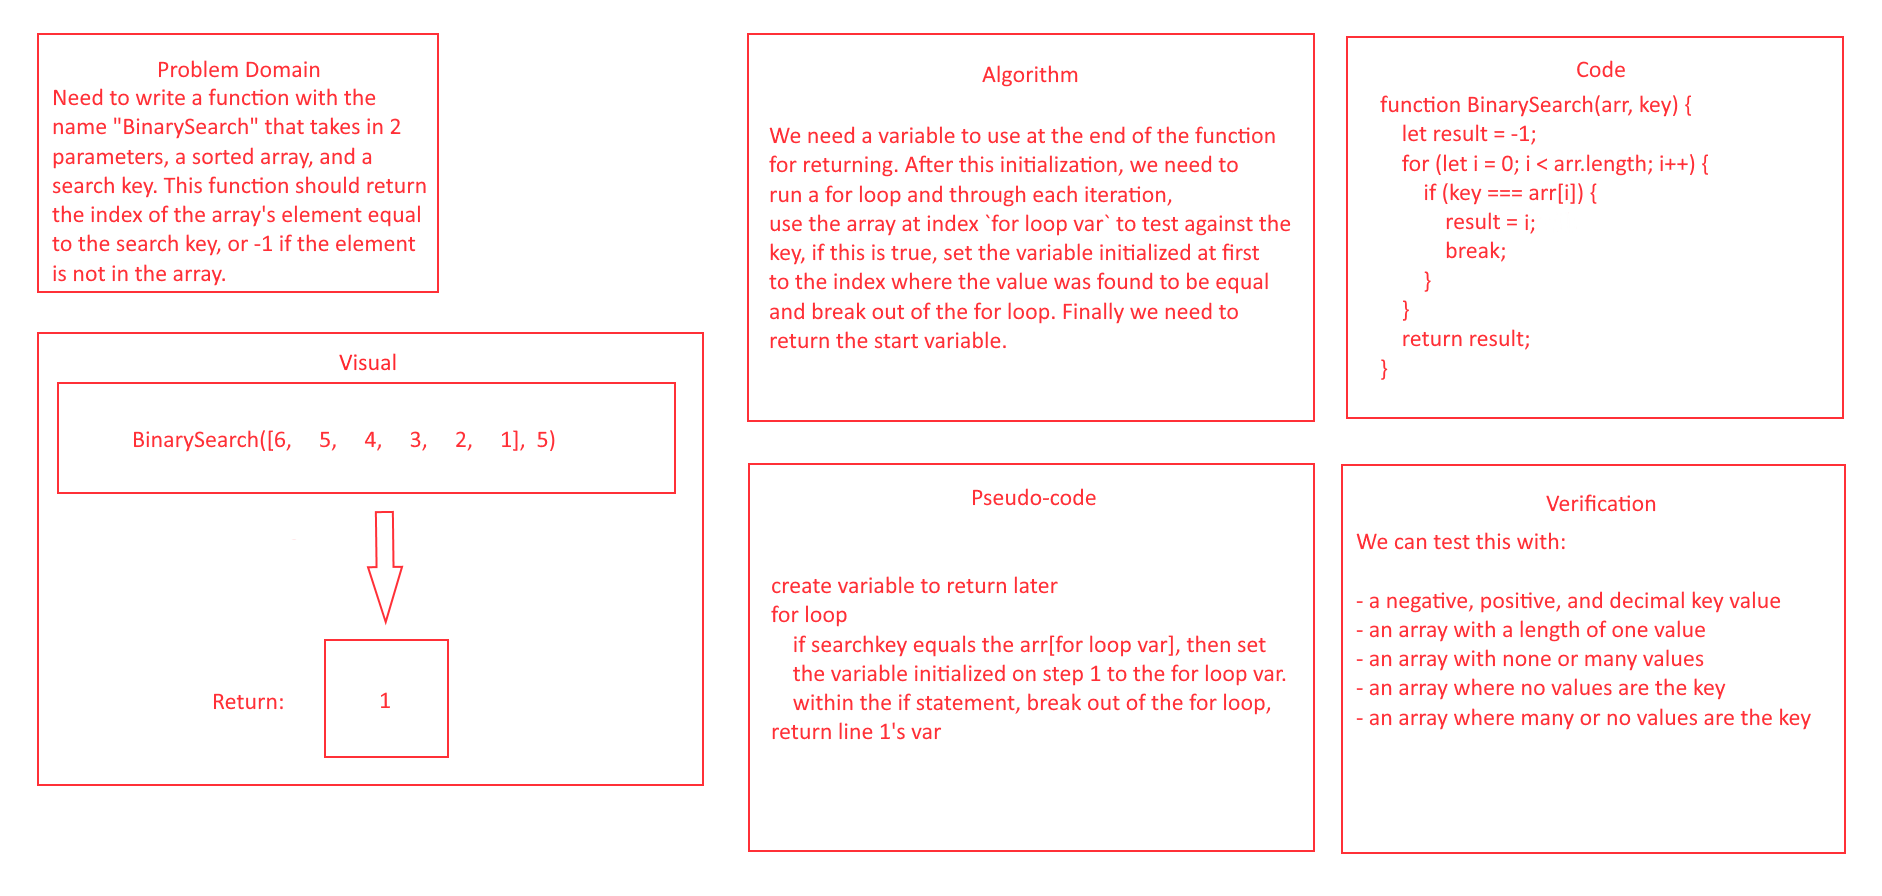
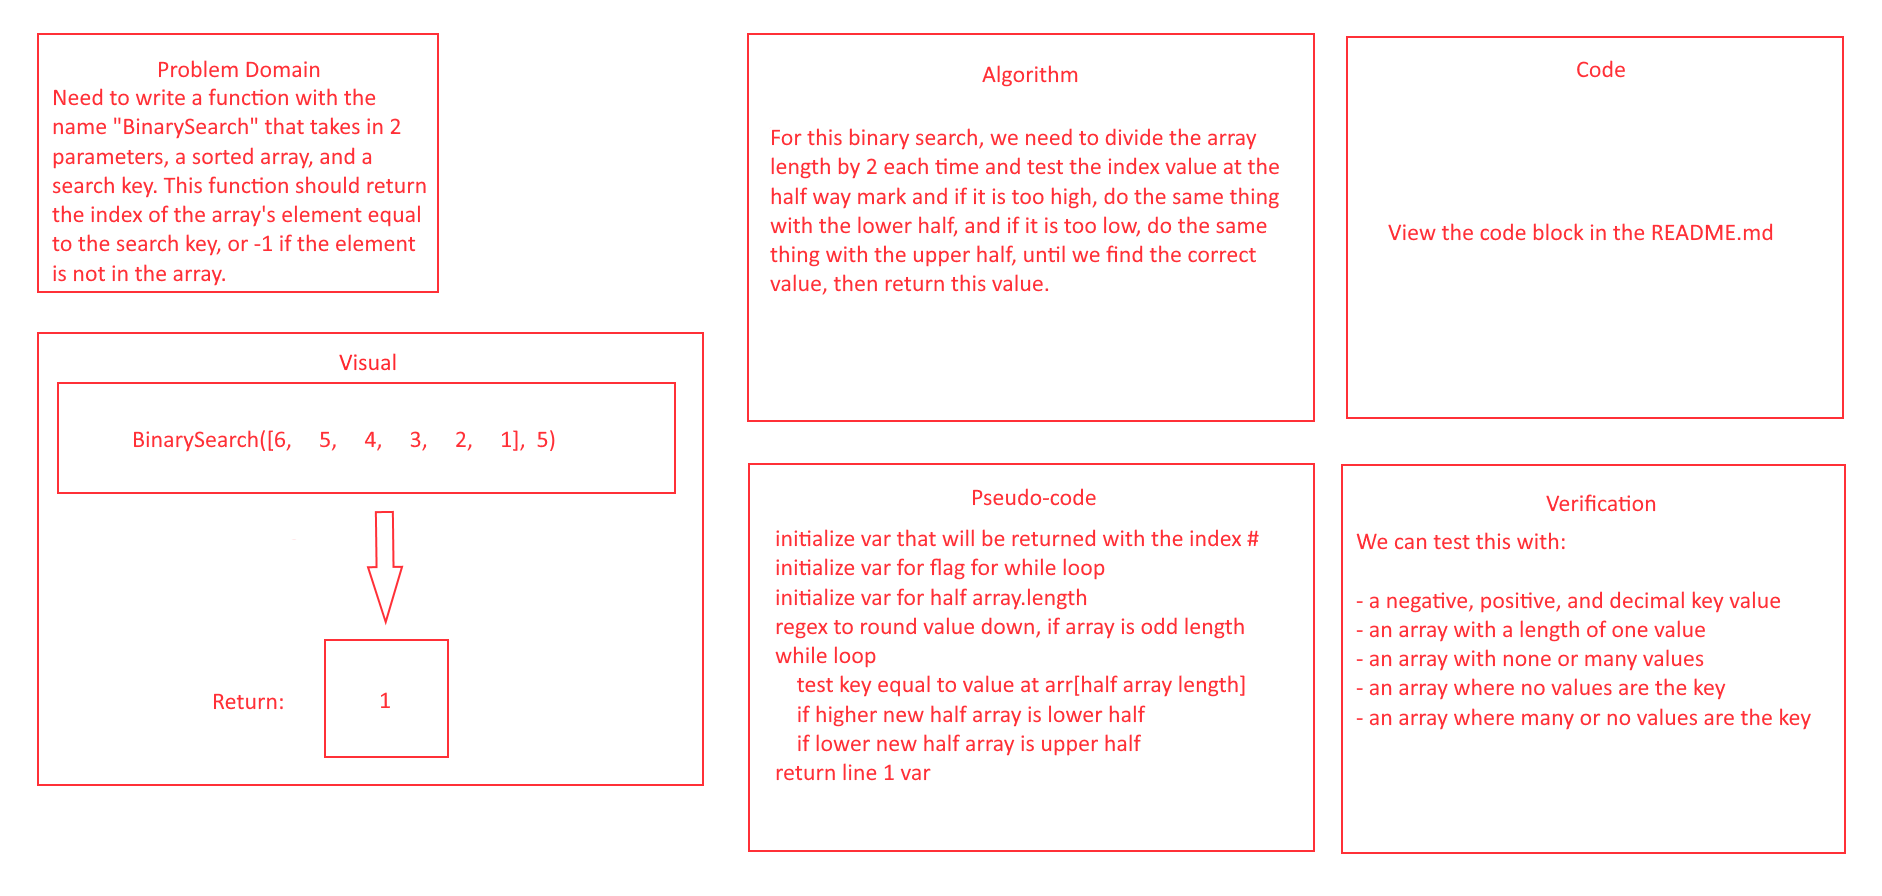
code challenge 5 for 401 JS

diff --git a/javascript/code-challenges/linkedList/linked-list.js b/javascript/code-challenges/linkedList/linked-list.js
@@ -1,0 +1,68 @@
+'use strict';
+
+class Node {
+  constructor(value) {
+    this.value = value;
+    this.next = null;
+  }
+}
+
+class LinkedList {
+  constructor() {
+    this.head = null;
+  }
+
+  traverse(callback) {
+    let current = this.head;
+    while (current !== null) {
+      console.log(current.value);
+      current = current.next;
+    }
+  }
+
+  insert(value) {
+    let current = this.head;
+    let previous = null;
+    while (current !== null) {
+      previous = current;
+      current = current.next;
+    }
+    let newNode = new Node(value);
+    previous.next = newNode;
+  }
+
+  includes(value) {
+    let current = this.head;
+    while (current !== null) {
+      if (current.value === value) {
+        return true;
+      } else {
+        current = current.next;
+      }
+    }
+    return false;
+  }
+
+  toString() {
+    let resultStr = '';
+    let current = this.head;
+    while (current !== null) {
+      if (!resultStr) {
+        resultStr = `{${current.value}}`;
+      } else {
+        resultStr = `${resultStr} -> {${current.value}}`
+      }
+      current = current.next;
+    }
+    resultStr = `${resultStr} -> NULL`
+    return resultStr;
+  }
+}
+
+const list = new LinkedList();
+const A = new Node('First Node of Linked List');
+list.head = A;
+list.insert(10);
+console.log(JSON.stringify(list));
+list.traverse();
+list.toString();

diff --git a/javascript/code-challenges/array-binary-search/README.md b/javascript/code-challenges/array-binary-search/README.md
@@ -7,4 +7,30 @@
 ![Whiteboard diagram](./CC3.png)
 
 ## Approach & Efficiency
-- For this one I thought about how it would be best to test the key against each individual value and worked backwards. I thought about the first issue being how to target each individual value, and thought this could be solved with a simple `for` loop. Then I worked out that the "test" could be ran with a simple `if` comparison statement. I didn't run into any problems. This one was the smoothest code challenge to solve for me.
+- I misinterpreted this problem at first, so if you check a previous pull you can see another way of solving this problem, just not the "binary search" method that is asked... I redid and sent another pull request to GitHub.
+
+## Solution
+
+``` JavaScript
+function BinarySearch(arr, key) {
+  let resultIdx = -1;
+  // flag is used to break out of while loop when correct answer is found
+  let flag = false;
+  let halfArr = (arr.length / 2) - 1;
+  // below is regex used to match only numbers before the decimal
+  let regex = /^([^.]+)/g
+  while (!flag) {
+  // below rounds the halfArr var down
+  halfArr = halfArr.match(regex);
+    if (arr[halfArr] > key) {
+      halfArr = halfArr / 2
+    } else if (arr[halfArr] < key) {
+      halfArr = (halfArr + (halfArr / 2))
+    } else if (arr[halfArr] === key) {
+      flag = true;
+      resultIdx = halfArr;
+    }
+  }
+  return resultIdx;
+}
+```

diff --git a/README.md b/README.md
@@ -19,3 +19,4 @@ Each day, you'll add one new file to this folder to do your work for the day's a
 - [Array reverse](./javascript/code-challenges/array-reverse/README.md)
 - [Array shift](./javascript/code-challenges/array-shift/README.md)
 - [Array binary search](./javascript/code-challenges/array-binary-search/README.md)
+- [Linked list](./javascript/code-challenges/linkedList/linked-list.js)
